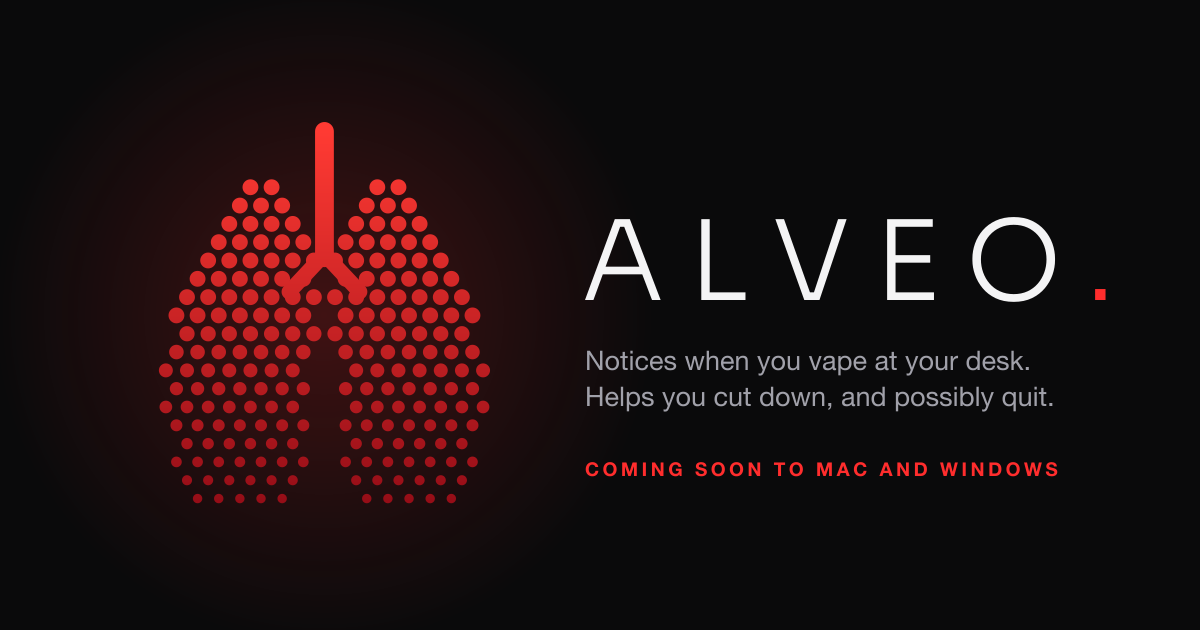
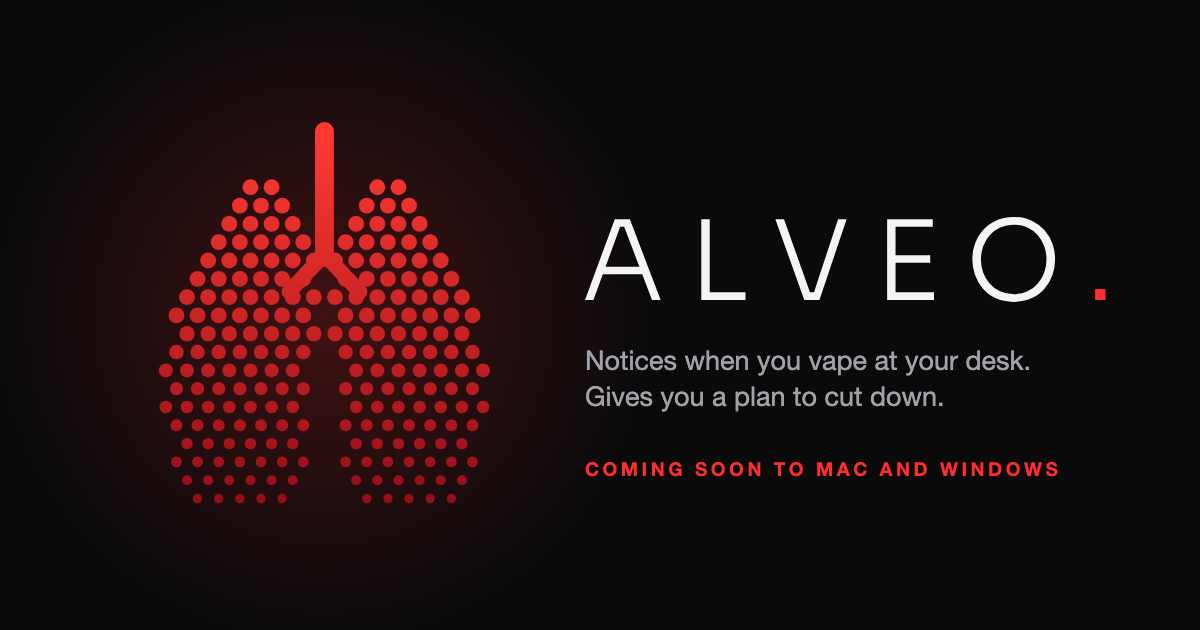
Link-preview image: new main line (from Master's re-export of vape-app og-card.svg); ?v=2 so previews refetch

diff --git a/index.html b/index.html
@@ -8,12 +8,12 @@
 <meta name="theme-color" content="#0a0a0b">
 <meta property="og:title" content="Alveo">
 <meta property="og:description" content="Notices when you vape at your desk and gives you a plan to cut down. Coming soon to Mac and Windows.">
-<meta property="og:image" content="https://getalveo.app/og-card.png">
+<meta property="og:image" content="https://getalveo.app/og-card.png?v=2">
 <meta property="og:image:width" content="1200">
 <meta property="og:image:height" content="630">
 <meta property="og:image:alt" content="Alveo: red dot lungs and the ALVEO. wordmark. Coming soon to Mac and Windows.">
 <meta name="twitter:card" content="summary_large_image">
-<meta name="twitter:image" content="https://getalveo.app/og-card.png">
+<meta name="twitter:image" content="https://getalveo.app/og-card.png?v=2">
 <meta property="og:url" content="https://getalveo.app/">
 <link rel="icon" type="image/png" href="favicon.png">
 <link rel="apple-touch-icon" href="apple-touch-icon.png">
